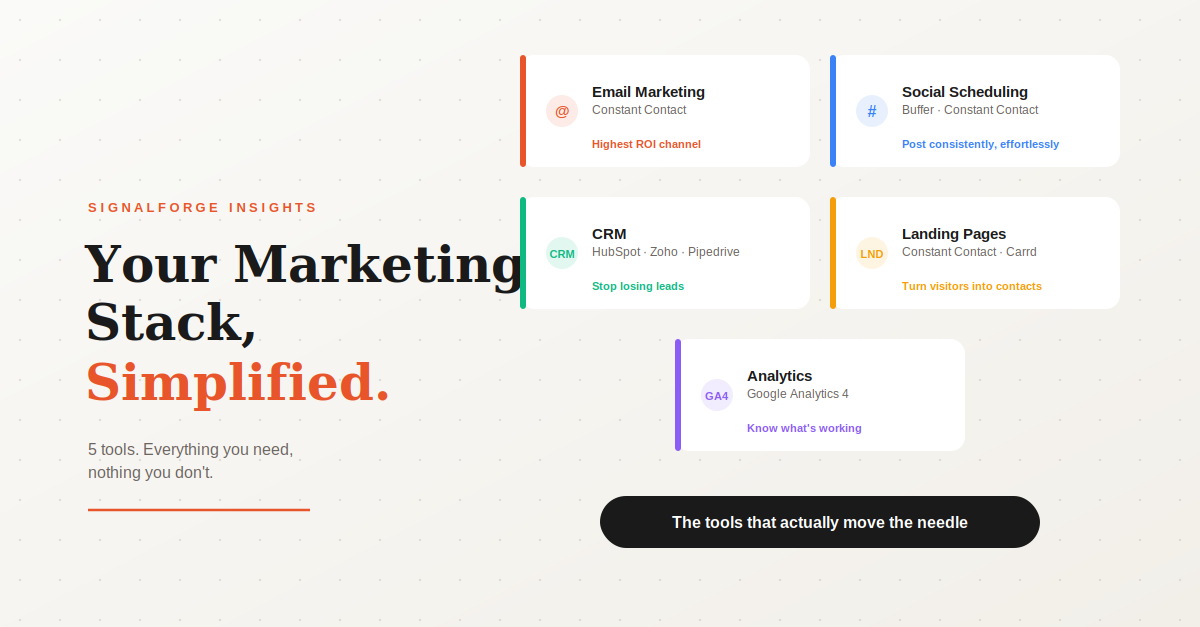
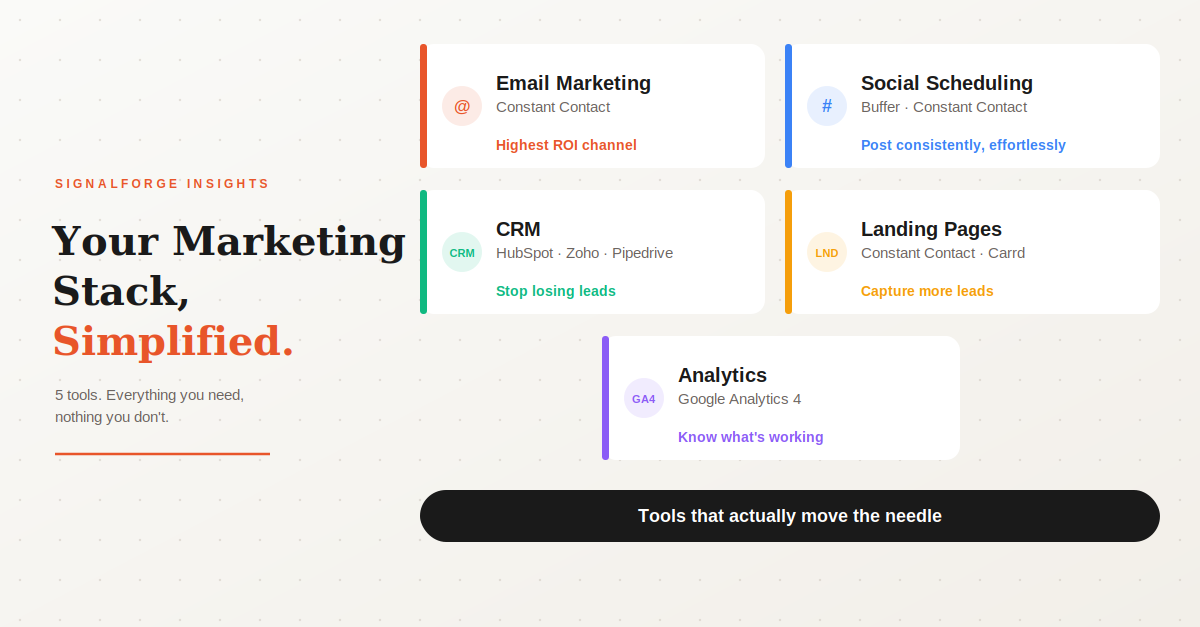
Taking out all Signalforge pricing

diff --git a/app/insights/small-business-marketing-stack/page.tsx b/app/insights/small-business-marketing-stack/page.tsx
@@ -29,12 +29,12 @@ export default function SmallBusinessMarketingStack() {
       {/* Hero Image */}
       <div style={{ marginBottom: "2.5rem", borderRadius: 16, overflow: "hidden" }}>
         <img
-          src="/images/marketing-stack.png"
+          src="/images/marketing-stack-cover.png"
           alt="The Small Business Marketing Stack"
           style={{ width: "100%", height: "auto", display: "block" }}
         />
       </div>
-      
+
       {/* Body */}
       <div style={{ fontSize: "1.05rem", lineHeight: 1.8 }}>
 
@@ -42,7 +42,7 @@ export default function SmallBusinessMarketingStack() {
         <p style={{ marginBottom: "1.25rem" }}>Either they're doing everything manually — posting when they remember, sending one-off emails, hoping word of mouth carries them — or they've signed up for too many tools, none of which are actually connected, and the whole thing feels like more work than it's worth.</p>
         <p style={{ marginBottom: "1.25rem" }}>Sound familiar? You're not alone.</p>
         <p style={{ marginBottom: "1.25rem" }}>Here's the good news: an effective marketing setup for a small business doesn't need to be complicated or expensive. You don't need 12 platforms. You don't need a full-time marketing person. You need a small stack of tools that work well together — and a basic system for using them consistently.</p>
-        <p style={{ marginBottom: "2rem" }}>This guide breaks down exactly what that looks like, what it costs, and how to get started.</p>
+        <p style={{ marginBottom: "2rem" }}>This guide breaks down exactly what that looks like and how to get started.</p>
 
         {/* Section 1 */}
         <h2 style={{ fontFamily: "var(--font-head, 'Syne', sans-serif)", fontSize: "1.5rem", fontWeight: 700, color: "var(--text)", margin: "2.5rem 0 1rem" }}>
@@ -61,11 +61,11 @@ export default function SmallBusinessMarketingStack() {
           The Core Stack: 5 Tools That Cover Everything
         </h2>
 
-        {/* Tool 1 */}
         {[
           {
             num: "01",
             title: "Email Marketing Platform",
+            color: "var(--coral)",
             content: (
               <>
                 <p style={{ marginBottom: "1rem" }}>If you're only going to invest in one marketing tool, make it this one. Email is still the highest-ROI marketing channel available — research consistently shows $36 to $42 returned for every $1 spent when done well.</p>
@@ -73,64 +73,63 @@ export default function SmallBusinessMarketingStack() {
                 <p style={{ marginBottom: "1rem" }}><strong>What to look for:</strong> Easy drag-and-drop email builder, basic automation (welcome sequences, follow-ups), list management, and reporting on opens and clicks. Bonus if it also handles SMS and social posting so you're managing fewer tools overall.</p>
                 <div style={{ background: "rgba(232,85,42,0.08)", borderLeft: "3px solid var(--coral)", borderRadius: "0 8px 8px 0", padding: "1rem 1.25rem", margin: "1rem 0" }}>
                   <span style={{ fontSize: "0.72rem", fontWeight: 700, textTransform: "uppercase", letterSpacing: "0.07em", color: "var(--coral)" }}>What we use at SignalForge</span>
-                  <p style={{ margin: "0.5rem 0 0", fontSize: "0.97rem" }}>Constant Contact. It's what we run our own campaigns on and what we set up for our clients. It handles email, SMS, and social posting from one dashboard, which keeps things simple. Plans start around $12–35/month depending on your list size.</p>
+                  <p style={{ margin: "0.5rem 0 0", fontSize: "0.97rem" }}>Constant Contact. It's what we run our own campaigns on and what we set up for our clients. It handles email, SMS, and social posting from one dashboard, which keeps things simple.</p>
                 </div>
-                <p style={{ marginBottom: "1rem" }}><strong>Other options:</strong> Mailchimp (free up to 500 contacts, good for getting started), Klaviyo (excellent for ecommerce), Brevo (strong automation at a lower price point).</p>
-                <div style={{ marginTop: "1rem", padding: "0.5rem 0.9rem", background: "var(--sand)", borderRadius: 8, display: "inline-block", fontSize: "0.9rem", fontWeight: 600 }}>💰 Budget: $12–45/month</div>
+                <p style={{ marginBottom: "0" }}><strong>Other options:</strong> Mailchimp (free up to 500 contacts, good for getting started), Klaviyo (excellent for ecommerce), Brevo (strong automation at a lower price point).</p>
               </>
             ),
           },
           {
             num: "02",
             title: "Social Media Scheduling Tool",
+            color: "#3B82F6",
             content: (
               <>
                 <p style={{ marginBottom: "1rem" }}>Posting consistently on social media is one of the biggest challenges small businesses face — not because the content is hard, but because life gets in the way. A scheduling tool lets you batch your content in one sitting and have it go out automatically throughout the week.</p>
                 <p style={{ marginBottom: "1rem" }}><strong>What it does:</strong> Lets you write and schedule posts across Facebook, Instagram, LinkedIn, and other platforms from one place, often with a content calendar view so you can see what's going out when.</p>
                 <p style={{ marginBottom: "1rem" }}><strong>Quick note on Constant Contact:</strong> If you're already using it for email, social scheduling for Facebook, Instagram, and LinkedIn is built in. For most small businesses that's all you need — and it keeps your tool count down.</p>
-                <p style={{ marginBottom: "1rem" }}><strong>If you need more:</strong> Buffer is our go-to recommendation for dedicated social scheduling. It's clean, simple, and starts at $6/month per social channel.</p>
-                <div style={{ marginTop: "1rem", padding: "0.5rem 0.9rem", background: "var(--sand)", borderRadius: 8, display: "inline-block", fontSize: "0.9rem", fontWeight: 600 }}>💰 Budget: $0 (included in Constant Contact) to $18/month</div>
+                <p style={{ marginBottom: "0" }}><strong>If you need more:</strong> Buffer is our go-to recommendation for dedicated social scheduling. It's clean, simple, and connects to all the major platforms.</p>
               </>
             ),
           },
           {
             num: "03",
             title: "A Simple CRM",
+            color: "#10B981",
             content: (
               <>
                 <p style={{ marginBottom: "1rem" }}>You don't need Salesforce. You don't need anything that requires a week of training to set up. But you do need somewhere to keep track of your leads, customers, and follow-ups — because if that's all living in your head or scattered across your inbox, you're losing business without knowing it.</p>
                 <p style={{ marginBottom: "1rem" }}><strong>What it does:</strong> Keeps a running record of every contact you're working with, where they are in the buying process, and what your next action is. The simple act of having this written down somewhere you actually check will close more deals.</p>
-                <p style={{ marginBottom: "1rem" }}><strong>Good options at this budget:</strong> HubSpot CRM (genuinely free for the basics, no time limit), Zoho CRM (free up to 3 users), or Pipedrive ($14/month, very clean and sales-focused).</p>
-                <div style={{ marginTop: "1rem", padding: "0.5rem 0.9rem", background: "var(--sand)", borderRadius: 8, display: "inline-block", fontSize: "0.9rem", fontWeight: 600 }}>💰 Budget: $0–20/month</div>
+                <p style={{ marginBottom: "0" }}><strong>Good options to consider:</strong> HubSpot CRM (genuinely free for the basics, no time limit), Zoho CRM (free up to 3 users), or Pipedrive (very clean and sales-focused).</p>
               </>
             ),
           },
           {
             num: "04",
             title: "A Landing Page or Lead Capture Tool",
+            color: "#F59E0B",
             content: (
               <>
                 <p style={{ marginBottom: "1rem" }}>Most small business websites are not set up to convert visitors into contacts — there's no clear offer, no easy way to sign up, no reason to leave an email address. A landing page tool fixes this.</p>
                 <p style={{ marginBottom: "1rem" }}><strong>What it does:</strong> Creates a focused single page with one clear call to action — a free consultation, a discount, an event registration — connected directly to your email list so new signups go straight into your marketing.</p>
-                <p style={{ marginBottom: "1rem" }}><strong>What works well:</strong> Constant Contact includes landing pages. If you need something more flexible, Carrd ($19/year — not a typo) is excellent for simple pages.</p>
-                <div style={{ marginTop: "1rem", padding: "0.5rem 0.9rem", background: "var(--sand)", borderRadius: 8, display: "inline-block", fontSize: "0.9rem", fontWeight: 600 }}>💰 Budget: $0 (included in existing tools) to $19/year</div>
+                <p style={{ marginBottom: "0" }}><strong>What works well:</strong> Constant Contact includes landing pages. If you need something more flexible, Carrd is excellent for simple, clean pages.</p>
               </>
             ),
           },
           {
             num: "05",
             title: "Analytics: Know What's Actually Working",
+            color: "#8B5CF6",
             content: (
               <>
                 <p style={{ marginBottom: "1rem" }}>You don't need to become a data analyst. But you do need to look at your numbers once a week — even for 10 minutes — so you're making decisions based on what's actually working rather than what feels right.</p>
-                <p style={{ marginBottom: "1rem" }}><strong>What to use:</strong> Google Analytics 4 is free and connects to your website in about 10 minutes. Your email platform shows open rates, click rates, and unsubscribes after every send. Your social tool shows engagement by post. Between those three you have everything you need.</p>
-                <div style={{ marginTop: "1rem", padding: "0.5rem 0.9rem", background: "var(--sand)", borderRadius: 8, display: "inline-block", fontSize: "0.9rem", fontWeight: 600 }}>💰 Budget: $0</div>
+                <p style={{ marginBottom: "0" }}><strong>What to use:</strong> Google Analytics 4 is free and connects to your website in about 10 minutes. Your email platform shows open rates, click rates, and unsubscribes after every send. Your social tool shows engagement by post. Between those three you have everything you need.</p>
               </>
             ),
           },
         ].map((tool) => (
           <div key={tool.num} style={{ display: "flex", gap: "1.5rem", background: "var(--cream)", border: "1px solid var(--warm-gray)", borderRadius: 12, padding: "1.75rem", marginBottom: "1.5rem" }}>
-            <div style={{ fontFamily: "var(--font-head, 'Syne', sans-serif)", fontSize: "2rem", fontWeight: 800, color: "var(--coral)", opacity: 0.4, minWidth: "2.5rem", lineHeight: 1, paddingTop: "0.2rem" }}>{tool.num}</div>
+            <div style={{ fontFamily: "var(--font-head, 'Syne', sans-serif)", fontSize: "2rem", fontWeight: 800, color: tool.color, opacity: 0.4, minWidth: "2.5rem", lineHeight: 1, paddingTop: "0.2rem" }}>{tool.num}</div>
             <div style={{ flex: 1 }}>
               <h3 style={{ fontFamily: "var(--font-head, 'Syne', sans-serif)", fontSize: "1.2rem", fontWeight: 700, color: "var(--text)", margin: "0 0 0.75rem" }}>{tool.title}</h3>
               {tool.content}
@@ -142,6 +141,7 @@ export default function SmallBusinessMarketingStack() {
         <h2 style={{ fontFamily: "var(--font-head, 'Syne', sans-serif)", fontSize: "1.5rem", fontWeight: 700, color: "var(--text)", margin: "2.5rem 0 1rem" }}>
           Putting It All Together: What This Actually Costs
         </h2>
+        <p style={{ marginBottom: "1.25rem" }}>These are the vendors' own published prices — what you'd pay going directly to each tool. No markups, no surprises.</p>
         <div style={{ border: "1px solid var(--warm-gray)", borderRadius: 12, overflow: "hidden", margin: "1.5rem 0" }}>
           {[
             ["Constant Contact (email + SMS + social)", "$12–35/month"],
@@ -150,7 +150,7 @@ export default function SmallBusinessMarketingStack() {
             ["Landing pages (Constant Contact or Carrd)", "$0–2/month"],
             ["Google Analytics", "$0/month"],
           ].map(([label, cost], i, arr) => (
-            <div key={label} style={{ display: "flex", justifyContent: "space-between", alignItems: "center", padding: "0.85rem 1.25rem", fontSize: "0.97rem", borderBottom: i < arr.length - 1 ? "1px solid var(--warm-gray)" : "1px solid var(--warm-gray)", gap: "1rem" }}>
+            <div key={label} style={{ display: "flex", justifyContent: "space-between", alignItems: "center", padding: "0.85rem 1.25rem", fontSize: "0.97rem", borderBottom: i < arr.length - 1 ? "1px solid var(--warm-gray)" : "none", gap: "1rem" }}>
               <span>{label}</span>
               <span style={{ fontWeight: 600, whiteSpace: "nowrap" }}>{cost}</span>
             </div>